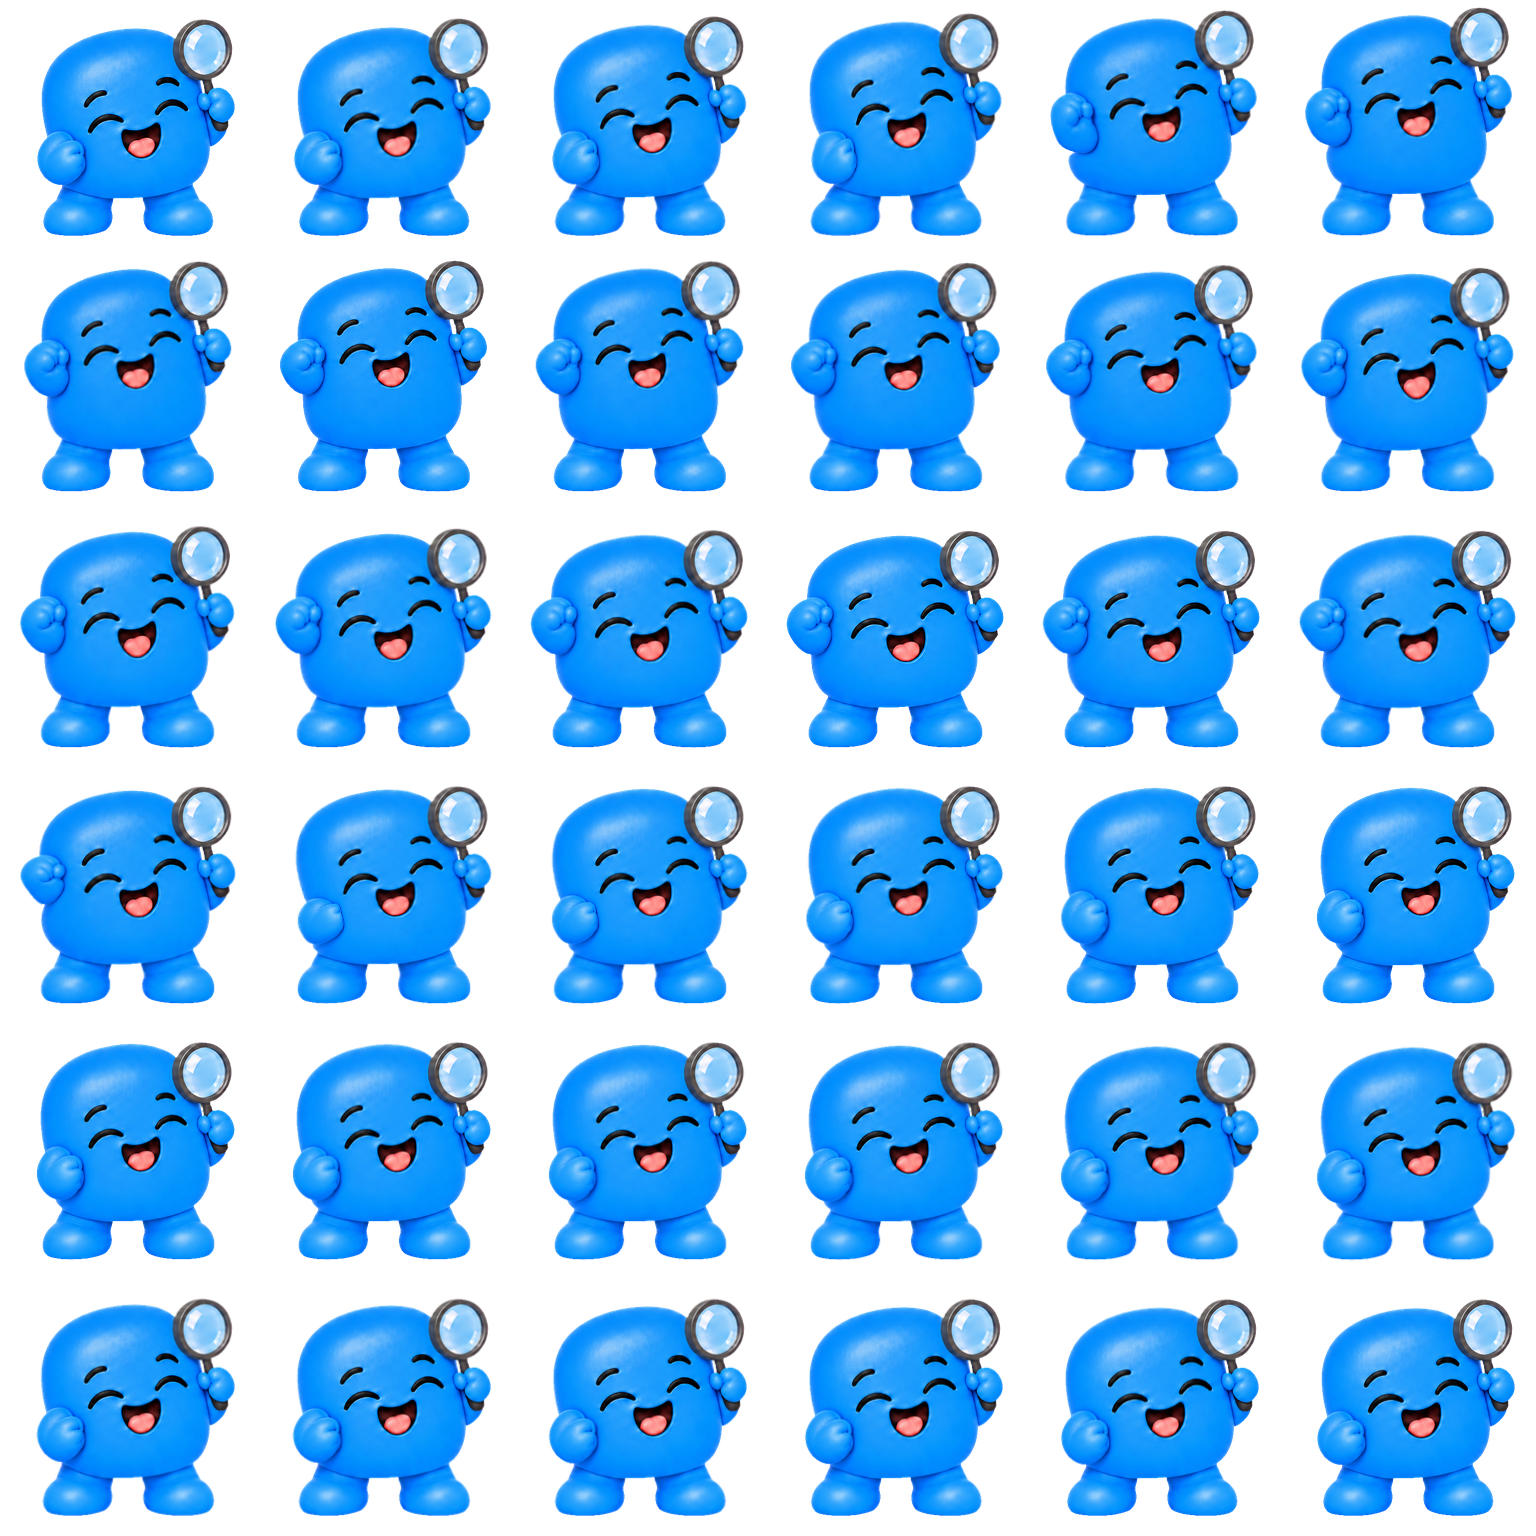
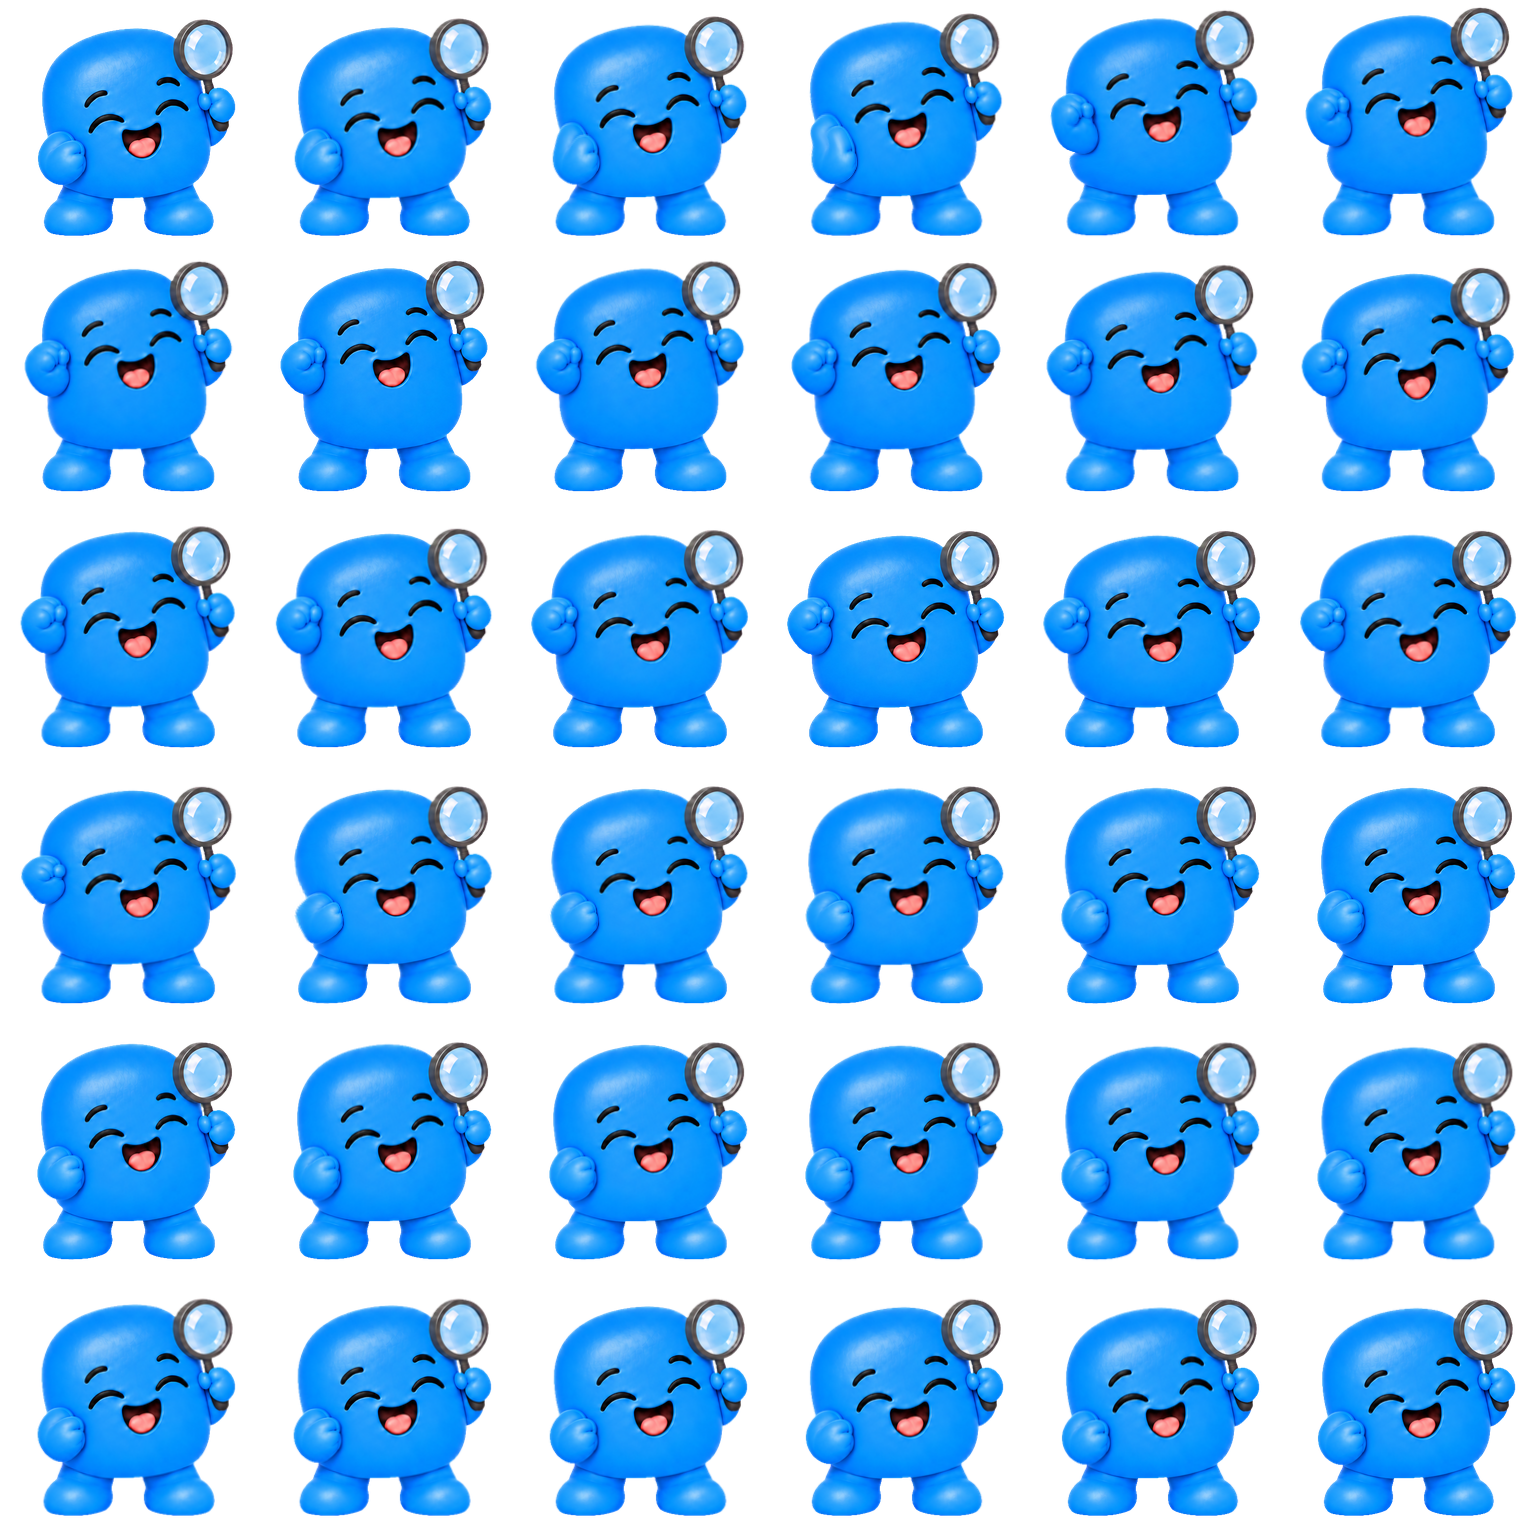
Centre on the poses, and keep the two sheets that earned it
The restored scan and greeting sheets decode and pass the framing gate at
1.32 and 1.33. They are still not used, and the measurement says why.

Framing first, because it changes the numbers the decision rests on. The
crop centred on the feet, which is the right anchor vertically — he
crouches and leans but never leaves the ground — and the wrong one
horizontally as soon as a pose holds the magnifier out to one side, since
the window must then be wide enough for the furthest reach on *both*
sides. greeting's widest pose occupies 410 points and demanded a window of
548; the character shrank by the difference. The window now centres on the
envelope of the sheet's poses, one shift for the whole sheet so nothing
slides between frames, which is the same fixed camera aimed better:

  greeting  torso 129 -> 191
  scan      torso 154 -> 171

success and concern have near-symmetric envelopes, so they move by 0.5 and
2.0 points out of 256 and their retrace is unchanged at 1.31 and 2.25.

Framed honestly, the two sheets are still worse than the approved 320px
rows they would replace, on both numbers:

                   retrace          torso
    scan      2.25 -> 1.23     216 -> 174
    greeting  1.92 -> 1.46     210 -> 191

And worse in the way that does not reduce to a number. The brief for these
sheets asked for hands close to the body, with pose variety coming from
the torso leaning rather than the arms reaching out. That is right for a
[…]

diff --git a/scripts/mascot_keys.py b/scripts/mascot_keys.py
@@ -146,6 +146,27 @@ def _anchor(alpha, x0, x1):
     return x0 + feet_x.mean(), ground, rows.min()
 
 
+def _offset(found):
+    """One horizontal shift for the whole sheet, in source points.
+
+    The feet are the right anchor vertically — he crouches and leans but never
+    leaves the ground — and the wrong one horizontally as soon as a pose holds
+    the magnifier out to one side. A crop centred on the feet has to be wide
+    enough for the furthest reach on *both* sides, so `greeting`'s widest pose
+    occupies 410 points and demands a 548-point window; 138 of those points are
+    empty, and the character shrinks by the same proportion to pay for them.
+
+    So the window is centred on the envelope of the poses instead. What keeps
+    this honest is that the shift is one number for the sheet, never per pose:
+    every pose moves by the same amount, so nothing slides between frames,
+    which is the drift the feet anchor exists to prevent. It is the same fixed
+    camera, aimed better.
+    """
+    left = max(pose['centre'] - pose['span'][0] for pose in found)
+    right = max(pose['span'][1] - pose['centre'] for pose in found)
+    return (right - left) / 2, left + right
+
+
 def _crop(keyed, pose, window, cell):
     """One pose, cut to `window` square on its own feet and resized to `cell`.
 
@@ -165,7 +186,7 @@ def _crop(keyed, pose, window, cell):
     pulls fifty-odd columns of the previous pose into the cell, and optical
     flow then spends the whole cycle fading a second character in and out.
     """
-    left = int(round(pose['centre'] - window / 2))
+    left = int(round(pose['centre'] + pose['offset'] - window / 2))
     top = int(round(pose['ground'] + window * (1 - FEET_FRACTION) - window))
     cropped = keyed.crop((left, top, left + window, top + window))
     alpha = np.asarray(cropped.getchannel('A')).copy()
@@ -263,6 +284,10 @@ def load_sheet(path, cell, expected=None):
     # oscillates: a window small enough to clip the character reads its torso
     # as the whole cell, which throws the next guess as far the other way.
     # Pulling only part of the way each pass converges in about eight.
+    shift, envelope = _offset(found)
+    for pose in found:
+        pose['offset'] = shift
+
     target = TORSO_AT_256 * cell / 256
     radius = max(3, int(round(ERODE_AT_256 * cell / 256)))
     window = int(round(float(np.median([pose['bbox'] for pose in found])) * 1.15))
@@ -298,9 +323,7 @@ def load_sheet(path, cell, expected=None):
     # Lanczos resize to the atlas cell then spreads it over the boundary. Two
     # percent is about four points at this scale — invisible, and enough.
     tall = max((pose['ground'] - pose['top']) for pose in found) * 1.02
-    wide = max(max(pose['centre'] - pose['span'][0],
-                   pose['span'][1] - pose['centre']) for pose in found) * 2 * 1.02
-    window = max(window, int(np.ceil(tall / FEET_FRACTION)), int(np.ceil(wide)))
+    window = max(window, int(np.ceil(tall / FEET_FRACTION)), int(np.ceil(envelope * 1.02)))
 
     poses = [_crop(keyed, pose, window, cell) for pose in found]
     torso = float(np.median([

diff --git a/scripts/interpolate-mascot-3d.py b/scripts/interpolate-mascot-3d.py
@@ -25,10 +25,31 @@ SHEETS = {
     'success': (4, [0, 1, 2, 3, 0], [7, 8, 8, 13]),
     'concern': (4, [0, 1, 2, 3, 0], [7, 7, 8, 14]),
 }
-#: What each state falls back to while its replacement sheet is missing or
-#: fails the framing gate: the four approved 320px rows, and the cycles their
-#: pose counts allow. `success` is the reason any of this exists — two poses
-#: cannot cycle, so it bounces, and only new artwork fixes it.
+#: Which states the replacement artwork actually improves.
+#:
+#: Measured, not assumed. `success` is the reason any of this exists: two poses
+#: cannot cycle, so it bounced, and only new artwork fixed it. `concern` gained
+#: a fourth pose that opens its loop out. The other two did not gain anything —
+#: their replacement sheets are worse on both of the things that matter:
+#:
+#:                  retrace          torso
+#:   scan      2.25 -> 1.23     216 -> 174
+#:   greeting  1.92 -> 1.46     210 -> 191
+#:
+#: and worse in the way that does not reduce to a number. The new `greeting`
+#: poses hold a closed fist at the side: the character no longer waves, which
+#: is the one thing the greeting state exists to do. The brief asked for hands
+#: close to the body and pose variety from the torso rather than the arms,
+#: which is right for holding a magnifier and wrong for a wave. The new `scan`
+#: moves the magnifier off the face to beside the head, so it reads as holding
+#: one rather than looking through it.
+#:
+#: So these two keep the approved 320px rows, which were never the problem. A
+#: sheet has to earn the swap; being newer is not earning it.
+USE_SHEET = {'success': True, 'concern': True, 'scan': False, 'greeting': False}
+
+#: What each state falls back to: the four approved 320px rows, and the cycles
+#: their pose counts allow.
 LEGACY = {
     'scan': ([0, 1, 2, 3, 0], [8, 7, 6, 15]),
     'greeting': ([1, 2, 3, 1], [13, 11, 12]),
@@ -72,7 +93,10 @@ for row, name in enumerate(NAMES):
     # 320px row until then. Mixing the two is free — the player sizes every
     # atlas in points from `GRID` and never reads a file's pixel dimensions.
     sheet = OUT / f'source/{name}-keyframes.png'
-    ratio = sheet_ratio(sheet) if sheet.exists() else float('inf')
+    # The ratio gate stays on top of the explicit choice, so a sheet that is
+    # re-uploaded broken or reframed badly still falls back on its own rather
+    # than shipping a regression.
+    ratio = sheet_ratio(sheet) if USE_SHEET[name] and sheet.exists() else float('inf')
     if ratio <= MAX_SILHOUETTE_RATIO:
         poses, sequence, budgets = SHEETS[name]
         keys, framing = load_sheet(sheet, CELL, poses)
@@ -84,6 +108,8 @@ for row, name in enumerate(NAMES):
         sequence, budgets = LEGACY[name]
         if ratio != float('inf'):
             why = f'silhouette {ratio:.2f}x torso'
+        elif not USE_SHEET[name]:
+            why = 'its sheet is a regression, see USE_SHEET'
         elif not sheet.exists():
             why = 'no sheet yet'
         else:

diff --git a/assets/mascot/3d/README.md b/assets/mascot/3d/README.md
@@ -15,67 +15,85 @@ The opaque source draft and old preview are not referenced by the application.
 Reference: user-provided `original_app_mascot.png`.
 Generated using the built-in image generation tool on 2026-09-10.
 
-## New keyframe sheets: two landed, two pending
+## New keyframe sheets: two of four earned the swap
 
-`source/success-keyframes.png` and `concern-keyframes.png` are in use. The
-other two (`scan-` and `greeting-keyframes.png`) are measured and rejected, so
-those states keep the approved 320px keys until replacements arrive. Each state
-picks its own source at build time, so sheets can land one at a time.
+All four replacement sheets are in `source/` and all four now decode. Two are
+in use and two are not, and the reason is not that the other two failed a
+check — they passed the framing gate. They are simply worse artwork for their
+states, measured against the approved 320px rows they would replace:
 
-What decides it is one number: how much wider the whole silhouette is than the
-torso. That ratio is what governs whether a square cell can hold both the body
-at full size and the magnifier, and it is also what optical flow can follow —
-past roughly 1.4 the magnifier travels so far between poses that the flow loses
-it and renders two. `MAX_SILHOUETTE_RATIO` in `scripts/mascot_keys.py` is the
-gate; `sheet_ratio()` measures a sheet against it without failing the build.
+| state | retrace, 320px -> sheet | torso, 320px -> sheet | in use |
+| --- | --- | --- | --- |
+| `success` | 0.42 -> 1.31 | — -> 196 | the sheet |
+| `concern` | 2.09 -> 2.25 | 206 -> 190 | the sheet |
+| `scan` | 2.25 -> 1.23 | 216 -> 174 | the 320px row |
+| `greeting` | 1.92 -> 1.46 | 210 -> 191 | the 320px row |
 
-| sheet | silhouette / torso | in use |
-| --- | --- | --- |
-| approved 320px art | 1.03-1.06 | the two fallbacks |
-| `success` (corrected) | 1.14 | yes |
-| `concern` (corrected) | 1.15 | yes |
-| `scan` (corrected) | — | no: the file will not decode |
-| `greeting` (corrected) | — | no: the file will not decode |
+"Retrace" is how far each frame is from the nearest frame that is not its own
+neighbour, in units of one frame-to-frame step. Low means the loop passes close
+to itself — the out-and-back this whole effort exists to remove. `success` at
+0.42 had frames that were bit-identical to each other.
 
-Corrected `scan` and `greeting` sheets were committed and are unusable for a
-reason that has nothing to do with the artwork: both arrived truncated at
-exactly 786,444 bytes — 768 KiB plus twelve — with no IEND and a deflate stream
-that breaks mid-chunk. About 30% of each decodes, and what decodes is right:
-the magnifier is held in close, the head fills the cell, the background is
-clean chroma green. The remaining bytes are not a continuation of the stream at
-any offset, so they cannot be recovered. These two need re-uploading, not
-redrawing.
+`success` is the reason any of this happened: the approved art gave it only two
+poses that shared an expression, so it could not cycle at all. `concern` gained
+a fourth pose. `scan` and `greeting` gained nothing — their 320px rows already
+cycled, and the sheets are worse on both numbers.
 
-`sheet_ratio` treats a file that will not decode exactly as it treats a file
-that is not there, so one truncated sheet cannot stop the other six atlases
-from building. The build says which case it hit.
+They are also worse in the way that does not reduce to a number, which is the
+part worth remembering. The brief for these sheets asked for the hands close to
+the body and pose variety from the torso leaning rather than the arms reaching
+out. That is exactly right for a character holding a magnifier, and it is wrong
+for a wave: the new `greeting` poses hold a closed fist at the side, so the
+greeting state no longer greets. The new `scan` moves the magnifier off the
+face to beside the head, so he reads as holding one rather than looking through
+it. A constraint written for one gesture was applied to all four.
 
-The two rejected sheets fail the same way the first `success` sheet did: the
-arms are extended too far, which both pushes the magnifier out of the cell and
-shrinks the body to about 35% less than every other state once framed so
-nothing clips. What a regeneration needs, beyond the existing brief: **the
-magnifier and both hands stay close to the body, so the full silhouette is no
-wider than about 1.1x the torso**, and the torso fills roughly three quarters
-of the cell, as it does in `source/escalation-keyframes.png`. Pose variety has
-to come from the body leaning, crouching and rising rather than from the arms
-reaching out. The corrected `success` and `concern` sheets are the worked
-examples.
+`USE_SHEET` in `scripts/interpolate-mascot-3d.py` records the choice per state.
+The ratio gate still runs on top of it, so a sheet that is later re-uploaded
+broken or reframed badly falls back on its own rather than shipping a
+regression.
 
-Both corrected sheets are nevertheless bound by height rather than by width:
-the raised magnifier reaches further above the head than a window sized to the
-shipping torso would allow, so the window widens to avoid clipping it and the
-character lands at 190-196px rather than 213. That is the right trade — a
-magnifier cut off at the cell edge is worse than a character 9% small — but a
-sheet that keeps the magnifier about 10% lower would render at full size. Worth
-saying in the brief for the two that remain.
+### What the gate measures, and what it cannot
+
+`MAX_SILHOUETTE_RATIO` (1.4) is how much wider the whole silhouette may be than
+the torso. It governs whether a square cell can hold both the body at full size
+and the magnifier, and whether optical flow can follow the magnifier between
+poses instead of rendering two of them. The approved art sits at 1.03-1.06, the
+accepted sheets at 1.14-1.15, and the two unused ones at 1.32-1.33 — inside the
+gate, which is why the gate alone does not decide.
+
+A file that will not decode gets the same answer as a file that is not there.
+Two sheets first arrived truncated at exactly 786,444 bytes — 768 KiB plus
+twelve, no IEND, deflate broken mid-chunk — and one unreadable sheet must not
+stop the other seven atlases from building.
+
+### Framing
 
 `scripts/mascot_keys.py` keys the green, finds each pose by the empty columns
-around it, and crops on the feet rather than on the nominal grid — needed
-because these sheets drift up to 53px vertically between cells, and because two
-`greeting` poses cross the cell boundary into each other. It solves the window
-size against a torso measured at the output scale, so the character lands the
-size he already is, then widens the window if any pose reaches higher than that
-size allows, so a raised arm is never cut off at the top of the cell.
+around it, and crops on the feet rather than the nominal grid, which these
+sheets need: they drift up to 53px vertically between cells, and two `greeting`
+poses cross a cell boundary into each other.
+
+Three rules the sheets taught it:
+
+**The window follows the artwork in both directions.** It is solved against a
+torso measured at the output scale, then widened if any pose reaches further
+than that allows — up, down or sideways. Before the sideways half existed,
+`scan` needed 580 points across, got 421, and lost 159 points of arm silently.
+Silent clipping is the worst outcome available; shrinking is at least visible.
+
+**Every crop is masked to its own band and span.** A window wide enough for an
+extended arm is wider than the 512 points between poses, so it reaches into the
+pose next door — fifty-odd columns of another character, which optical flow
+would fade in and out for the whole cycle.
+
+**The window centres on the sheet's envelope, not on the feet.** The feet are
+the right anchor vertically, and the wrong one horizontally the moment a pose
+holds the magnifier out to one side: a feet-centred crop must be wide enough
+for the furthest reach on *both* sides. `greeting`'s widest pose occupies 410
+points and demanded 548, and the character shrank by the difference — 129px of
+torso where the same sheet framed on its envelope gives 191. The shift is one
+number for the whole sheet, never per pose, so nothing slides between frames.
 
 ## Character invariants
 
